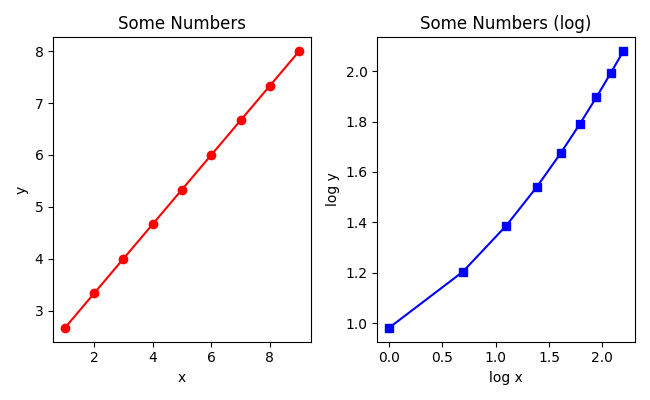
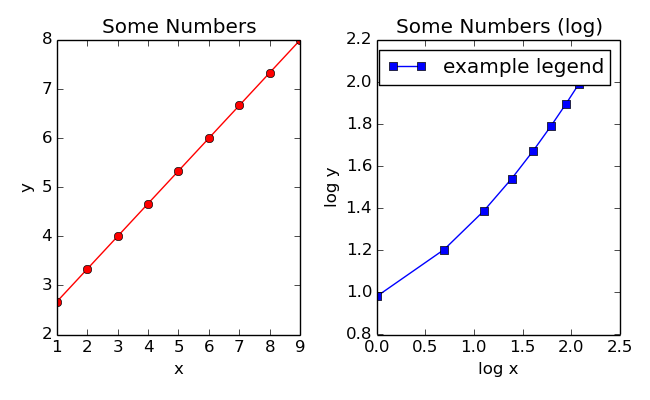
added figures to instructions

diff --git a/plot_graph.py b/plot_graph.py
@@ -2,8 +2,8 @@ import matplotlib.pyplot as plt  # put at the top of file
 import math                      # put at the top of file, for the "Log" calculation
 
 def main():
-    plot_some_numbers()
-    return
+	plot_some_numbers()
+	return
 
 def plot_some_numbers():
 	fig = plt.figure(figsize=(6.5,4))  # make a 6.5" wide by 4" tall figure.
@@ -19,16 +19,17 @@ def plot_some_numbers():
 	plt.title('Some Numbers')
 
 	plt.subplot(1,2,2)                # in a 1-by-2 grid, 2nd subplot
-	plt.plot(logx,logy,'s-b')         # plot a blue line with squares
+	plt.plot(logx,logy,'s-b',label='example legend')         # plot a blue line with squares
+	plt.legend()
 	plt.xlabel('log x')
 	plt.ylabel('log y')
 	plt.title('Some Numbers (log)')
 
 	plt.tight_layout()                # make the labels  "snap" to the grid.
-	                                  # this may emit a warning, which is OK
+									  # this may emit a warning, which is OK
 	plt.savefig('numbers.png')        # save figure as PNG
 	print('wrote to numbers.png')
 	return
 
 if __name__ == '__main__':
-    main()
+	main()

diff --git a/README.md b/README.md
@@ -47,7 +47,7 @@ Write your code in the `run.py` file, copying functions from `plot_graph.py` as 
 
 Tasks F-G will ask you to run your code on other files of the same format, so consider this when writing your code for the earlier tasks. **Before you start each task, think carefully about what you need for the calculation and break the task down into smaller steps if necessary.**
 
-First, write a `read_edge_file()` function that takes a filename (as a string) and returns an edge list (and any other data structures you find useful, like an adjacency matrix or an adjacency list).  For each network, print the number of nodes `n`, the number of edges `m`, and the average node degree of the network: `2m/n`.
+First, write a `read_edge_file()` function that takes a filename (as a string) and returns an edge list (and any other data structures - an **adjacency list** will be useful).  For each network, print the number of nodes `n`, the number of edges `m`, and the average node degree of the network: `2m/n`.
 
 Next, calculate and plot the degree distribution. This is a **histogram** of node degrees for each network, where the x-axis contains the degree `k` and the y-axis contains the number of nodes that have degree `k`.  Use the `plt.plot()` function from `matplotlib`, so think first about what your `x` and `y` lists should look like.  You can plot multiple lines on the same figure by calling `plt.plot()` multiple times:
 ```
@@ -61,8 +61,8 @@ You will be running the same functions on multiple files and plotting all data o
 
 ```
 def main():
-  names = ['Example1','Example2']
-  files = ['example1.txt','example2.txt']
+  names = ['Graph1','Graph2']
+  files = ['graph1.txt','graph2.txt']
 
   for i in range(len(names)):
     print('DATASET:',names[i])
@@ -74,6 +74,11 @@ def main():
 _Code Structure Suggestion 2_:
 
 You will be calculating histograms for many of these tasks.  For each measure, suppose you have a dictionary of (key,value) pairs where the keys are the nodes and the values are the statistic (here, degree distribution of that node).  You can write a `generate_hist()` function to take a dictionary like this and returns the lists `x` and `y` that are passed to `plt.plot()` functions.
+
+:question: The two randomly-generated graphs (with their degrees) look like the following, however you will have a line plot instead of a bar chart in your code. Can you determine which is `graph1.txt` and which is `graph2.txt`?
+
+![random graph](figs/random-graph.png)
+![pref attachment](figs/pref-attach.png)
 
 ## :star: **Task C**: Calculate and Plot (Average) Average Neighbor Degree
 
@@ -92,6 +97,8 @@ First, compute the clustering coefficient (CC) for each node <img src="https://r
 <img src="https://render.githubusercontent.com/render/math?math=\huge \frac{2 E_v}{d_v(d_v-1)},">
 
 where <img src="https://render.githubusercontent.com/render/math?math=d_v"> is the degree of node <img src="https://render.githubusercontent.com/render/math?math=v"> and <img src="https://render.githubusercontent.com/render/math?math=E_v"> is the number of edges between <img src="https://render.githubusercontent.com/render/math?math=v">'s neighbors.
+
+:question: What happens when a node has degree 1?  The denominator becomes 0, and the clustering coefficient is undefined! In this case, set CC to 0.  Since we're working with edge lists, there will never be a node degree 0.
 
 Next, plot the **average** CC for each degree `k`. The x-axis contains the degree `k` and the y-axis contains the average CC value for all nodes with degree `k`.  There should be a single y-value for each x-value plotted.
 
